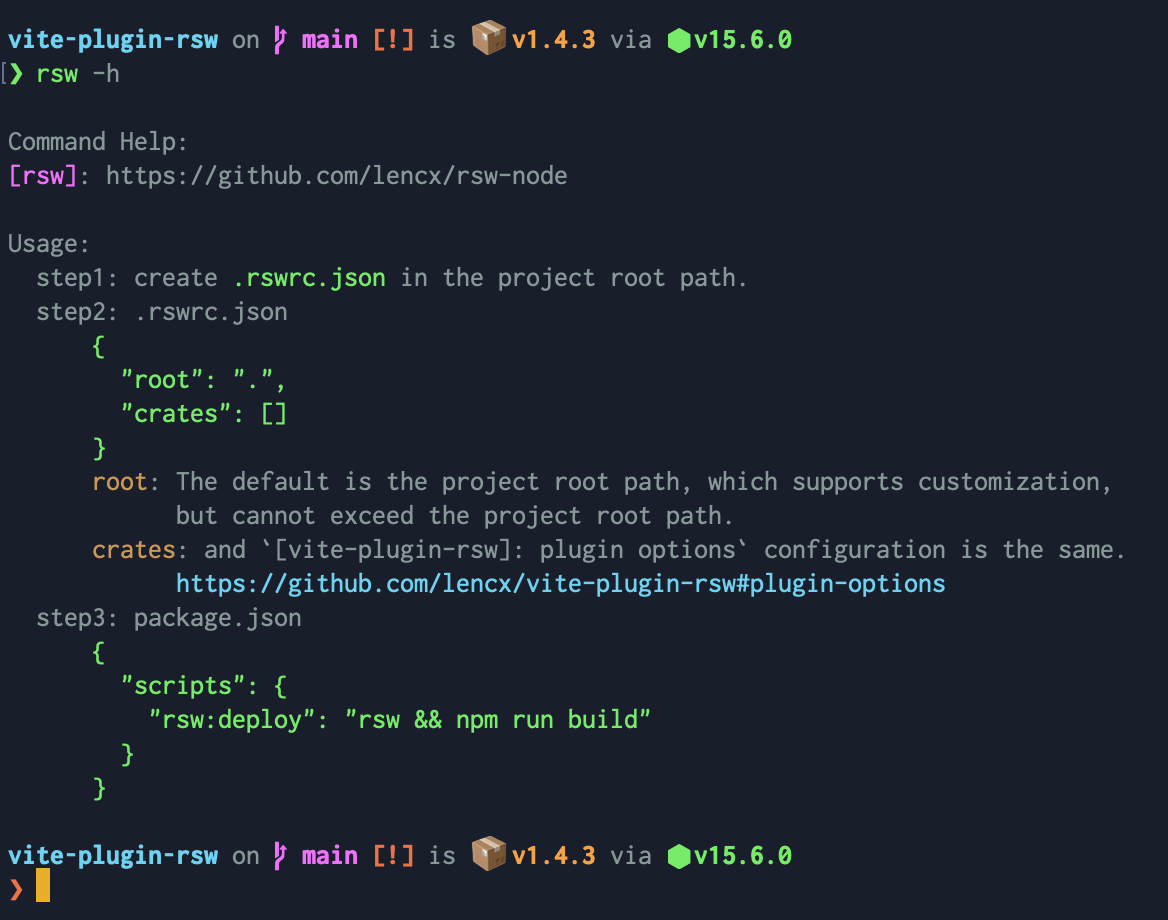
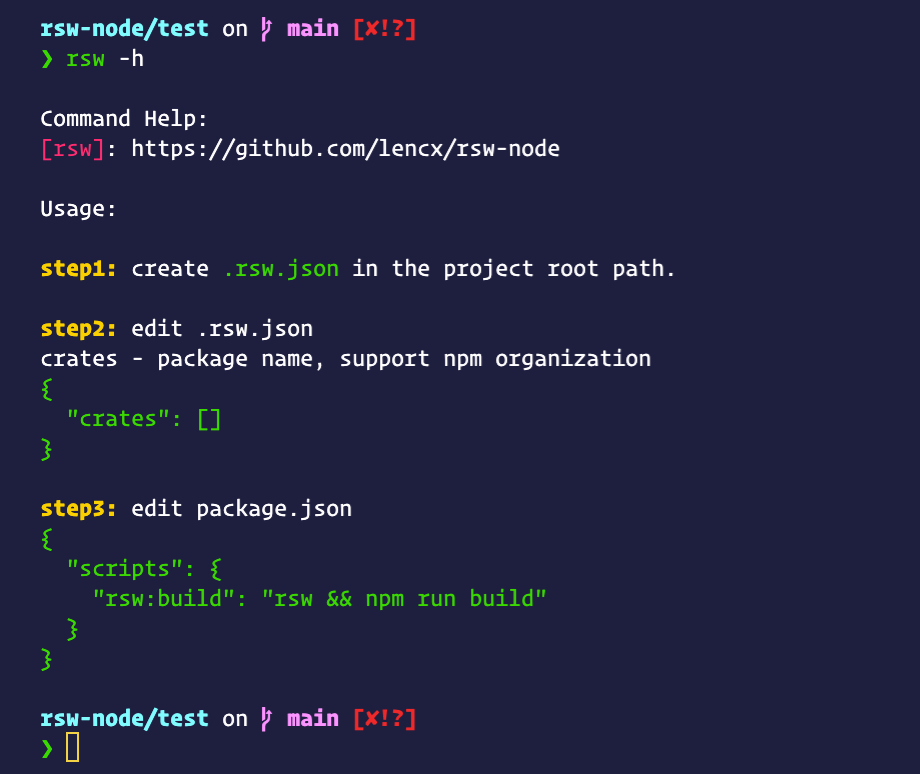
feat: watch deps (#18)

diff --git a/src/utils.ts b/src/utils.ts
@@ -5,6 +5,7 @@ import which from 'which';
 import debug from 'debug';
 import chalk from 'chalk';
 import toml from '@iarna/toml';
+import chokidar from 'chokidar';
 import { execFileSync, execSync } from 'child_process';
 import fg from 'fast-glob';
 
@@ -22,6 +23,10 @@ export const isWin = os.platform() === 'win32';
 export const userRoot = process.env.HOME || '';
 
 export const wpCmd = isWin ? 'wasm-pack.exe' : 'wasm-pack';
+
+export const depsPathsDir = path.resolve(process.cwd(), '.rsw/paths');
+
+export const crateToFilename = (crate: string) => crate.replace(/\//g, '.');
 
 export const npmCmd = (cli?: CliType) => {
   if (cli && ['npm', 'pnpm'].includes(cli)) return cli;
@@ -199,24 +204,27 @@ export function genRswJson(data: string[]) {
     "scripts: {
   ${chalk.green`+    "rsw:build": "rsw && npm run build"`}
     }
-  }`));
+  }\n`));
   }
 
   if (!rswExists) return writeRsw('create');
 
   // match {svelte,vite}.config.{js,ts}
   const configName = fg.sync('{svelte,vite}.config.{js,ts}')?.[0];
-  const pkgFile = path.resolve(process.cwd(), configName);
+  const confFile = path.resolve(process.cwd(), configName);
   const rswMtime = fs.statSync(rswFile).mtimeMs;
-  const pkgMtime = fs.statSync(pkgFile).mtimeMs;
-  if (rswMtime < pkgMtime) writeRsw('update');
+  const confMtime = fs.statSync(confFile).mtimeMs;
+  if (rswMtime < confMtime) writeRsw('update');
 }
 
-export function getPaths(entries: string[], outFile: string, crateRoot: string) {
-  const paths = new Set();
+export function getDepsPath(entries: string[], crateRoot: string) {
+  fs.mkdirSync(depsPathsDir, { recursive: true });
 
   entries.forEach((entry: string) => {
-    const tomlFile = fs.readFileSync(entry, { encoding: 'utf-8' });
+    const paths = new Set();
+    const _crateRoot = path.join(crateRoot, entry);
+
+    const tomlFile = fs.readFileSync(`${_crateRoot}/Cargo.toml`, { encoding: 'utf-8' });
     const tomlData = toml.parse(tomlFile);
 
     const getVal = (prop: string | null, data: string | Object, root: string): void => {
@@ -246,8 +254,40 @@ export function getPaths(entries: string[], outFile: string, crateRoot: string) 
       tomlData.dependencies,
       tomlData['dev-dependencies'],
       tomlData['build-dependencies']
-    ], crateRoot);
-  })
+    ], _crateRoot);
 
-  fs.writeFileSync(outFile, `${[...paths].join('\n')}`, { encoding: 'utf-8' });
+    fs.writeFileSync(`${depsPathsDir}/${crateToFilename(entry)}`, `${[...paths].join('\n')}`, { encoding: 'utf-8' });
+  })
+}
+
+export function watchDeps(crate: string, callback: (...args: any) => void) {
+  const _crate = crateToFilename(crate);
+  const _file = `${depsPathsDir}/${_crate}`;
+  try {
+    const fileData = fs.readFileSync(_file, { encoding: 'utf-8' });
+    fileData.split('\n').forEach((itemPath) => {
+      watch([
+        path.join(itemPath, 'src'),
+        path.join(itemPath, 'Cargo.toml')
+      ], 'deps', callback);
+    })
+  } catch (e) {}
+}
+
+export function watch(args: string[], type: 'repo' | 'main' | 'deps', callback: (path: string) => void) {
+  chokidar.watch(args, {
+    ignoreInitial: true,
+    ignored: ['**/node_modules/**', '**/.git/**', '**/target/**'],
+    awaitWriteFinish: {
+      stabilityThreshold: 100,
+      pollInterval: 10,
+    },
+    usePolling: true,
+  }).on('all', (event, _path) => {
+    console.log(
+      chalk.blue(`[rsw::${type}::${event}] `),
+      chalk.yellow(`File ${_path}`),
+    );
+    callback(_path);
+  });
 }

diff --git a/src/compiler.ts b/src/compiler.ts
@@ -1,13 +1,11 @@
 import path from 'path';
 import chalk from 'chalk';
-import chokidar from 'chokidar';
 import { readFileSync } from 'fs';
 import { spawnSync, exec } from 'child_process';
 import type { ViteDevServer } from 'vite';
-import TOML from '@iarna/toml';
 
 import fmtRustError from './rserr';
-import { wpCmd, npmCmd, debugRsw, sleep, getCrateName, checkMtime } from './utils';
+import { wpCmd, npmCmd, debugRsw, sleep, getCrateName, checkMtime, watch, watchDeps } from './utils';
 import { CompileOneOptions, RswCompileOptions, RswPluginOptions, RswCrateOptions, NpmCmdType, CliType } from './types';
 
 const cacheMap = new Map<string, string>();
@@ -157,7 +155,7 @@ export function rswCompile(options: RswCompileOptions) {
 }
 
 export function rswWatch(config: RswPluginOptions, root: string, serve: ViteDevServer, cratePathMap: Map<string, string>) {
-  watch([path.resolve(root, 'package.json')], (_path) => {
+  watch([path.resolve(root, 'package.json')], 'repo', (_path) => {
     rswCompile({ config, root, serve, filePath: _path, cratePathMap });
   });
 
@@ -168,17 +166,11 @@ export function rswWatch(config: RswPluginOptions, root: string, serve: ViteDevS
     watch([
       path.resolve(root, name, 'src'),
       path.resolve(root, name, 'Cargo.toml'),
-    ], (_path) => {
+    ], 'main', (_path) => {
       rswCompile({ config, root, crate: name, serve, filePath: _path, cratePathMap });
-      const tomlFile = readFileSync(_path, { encoding: 'utf-8' });
-      const tomlData = TOML.parse(tomlFile);
-
-      // TODO: local path - watch toml dependencies
-      // console.log('«173» /vite-plugin-rsw/src/compiler.ts ~> ', _path, tomlData);
-      console.log(JSON.stringify(tomlData.target, null, 2));
-      console.log(JSON.stringify(tomlData.dependencies, null, 2));
-      console.log(JSON.stringify(tomlData['dev-dependencies'], null, 2));
-      console.log(JSON.stringify(tomlData['build-dependencies'], null, 2));
+    });
+    watchDeps(name, (_path) => {
+      rswCompile({ config, root, crate: name, serve, filePath: _path, cratePathMap });
     });
   })
 }
@@ -201,23 +193,5 @@ function rswPkgsLink(pkgs: string | Map<string, string>, type: NpmCmdType, cli: 
     shell: true,
     cwd: process.cwd(),
     stdio: 'inherit',
-  });
-}
-
-function watch(args: string[], callback: (path: string) => void) {
-  chokidar.watch(args, {
-    ignoreInitial: true,
-    ignored: ['**/node_modules/**', '**/.git/**', '**/target/**'],
-    awaitWriteFinish: {
-      stabilityThreshold: 100,
-      pollInterval: 10,
-    },
-    usePolling: true,
-  }).on('all', (event, _path) => {
-    console.log(
-      chalk.blue(`[rsw::file::${event}] `),
-      chalk.yellow(`File ${_path}`),
-    );
-    callback(_path);
   });
 }

diff --git a/src/index.ts b/src/index.ts
@@ -6,7 +6,7 @@ import type { Plugin, ResolvedConfig } from 'vite';
 import { rswOverlay, rswHot } from './template';
 import { rswCompile, rswWatch } from './compiler';
 import { RswPluginOptions, WasmFileInfo } from './types';
-import { debugRsw, checkENV, checkCrate, getCratePath, loadWasm, genRswJson } from './utils';
+import { debugRsw, checkENV, checkCrate, getCratePath, loadWasm, genRswJson, getDepsPath } from './utils';
 
 const wasmMap = new Map<string, WasmFileInfo>();
 const cratePathMap = new Map<string, string>();
@@ -26,7 +26,10 @@ export function ViteRsw(userOptions: RswPluginOptions): Plugin {
     }
   });
 
-  genRswJson(Array.from(cratePathMap.keys()));
+  const crateList = Array.from(cratePathMap.keys());
+
+  genRswJson(crateList);
+  getDepsPath(crateList, crateRoot);
 
   const re = Array.from(cratePathMap.values()).map(i => `${i}/.*.js`).join('|').replace('/', '\\/');
 

diff --git a/README.md b/README.md
@@ -135,46 +135,25 @@ greet('World!');
 
 ## Remote Deployment
 
-Install [lencx/rsw-node](https://github.com/lencx/rsw-node) globally, you can use the `rsw` command.
-
-```bash
-npm i -g rsw-node
+```jsonc
+{
+  "scripts": {
++   "rsw:build": "rsw && npm run build"
+  }
+}
 ```
-
-<img width="480" src="./assets/rsw-node-help.png" alt="rsw help">
 
 ### Example
 
-#### Step1
-
-[learn-wasm/package.json](https://github.com/lencx/learn-wasm/blob/main/package.json)
-
-```bash
-npm install -D rsw-node
-```
+[lencx/learn-wasm](https://github.com/lencx/learn-wasm/blob/main/package.json)
 
 ```json
 "scripts": {
-  "rsw:deploy": "rsw && npm run build"
+  "rsw:build": "rsw && npm run build"
 }
 ```
 
 #### Step2
-
-[learn-wasm/.rswrc.json](https://github.com/lencx/learn-wasm/blob/main/.rswrc.json)
-
-```json
-{
-  "root": ".",
-  "crates": [
-    "@rsw/chasm",
-    "@rsw/game-of-life",
-    "@rsw/excel-read"
-  ]
-}
-```
-
-#### Step3
 
 [learn-wasm/.github/workflows/deploy.yml](https://github.com/lencx/learn-wasm/blob/main/.github/workflows/deploy.yml)
 
@@ -198,7 +177,7 @@ jobs:
         with:
           node-version: '14'
       - run: yarn
-      - run: yarn rsw:deploy # rsw-node build
+      - run: yarn rsw:build # rsw-node build
 
       - name: Deploy
         uses: peaceiris/actions-gh-pages@v3

diff --git a/CHANGELOG.md b/CHANGELOG.md
@@ -1,3 +1,8 @@
+## 1.9.0 (2021-08-22)
+
+- [Watch for dependent workspace crates](https://github.com/lencx/vite-plugin-rsw/issues/18)
+- [Automatically generate .rsw.json](https://github.com/lencx/vite-plugin-rsw/issues/19)
+
 ## 1.8.0 (2021-07-13)
 
 - remove replace: Vite v2.4.x support new URL(url, import.meta.url)
